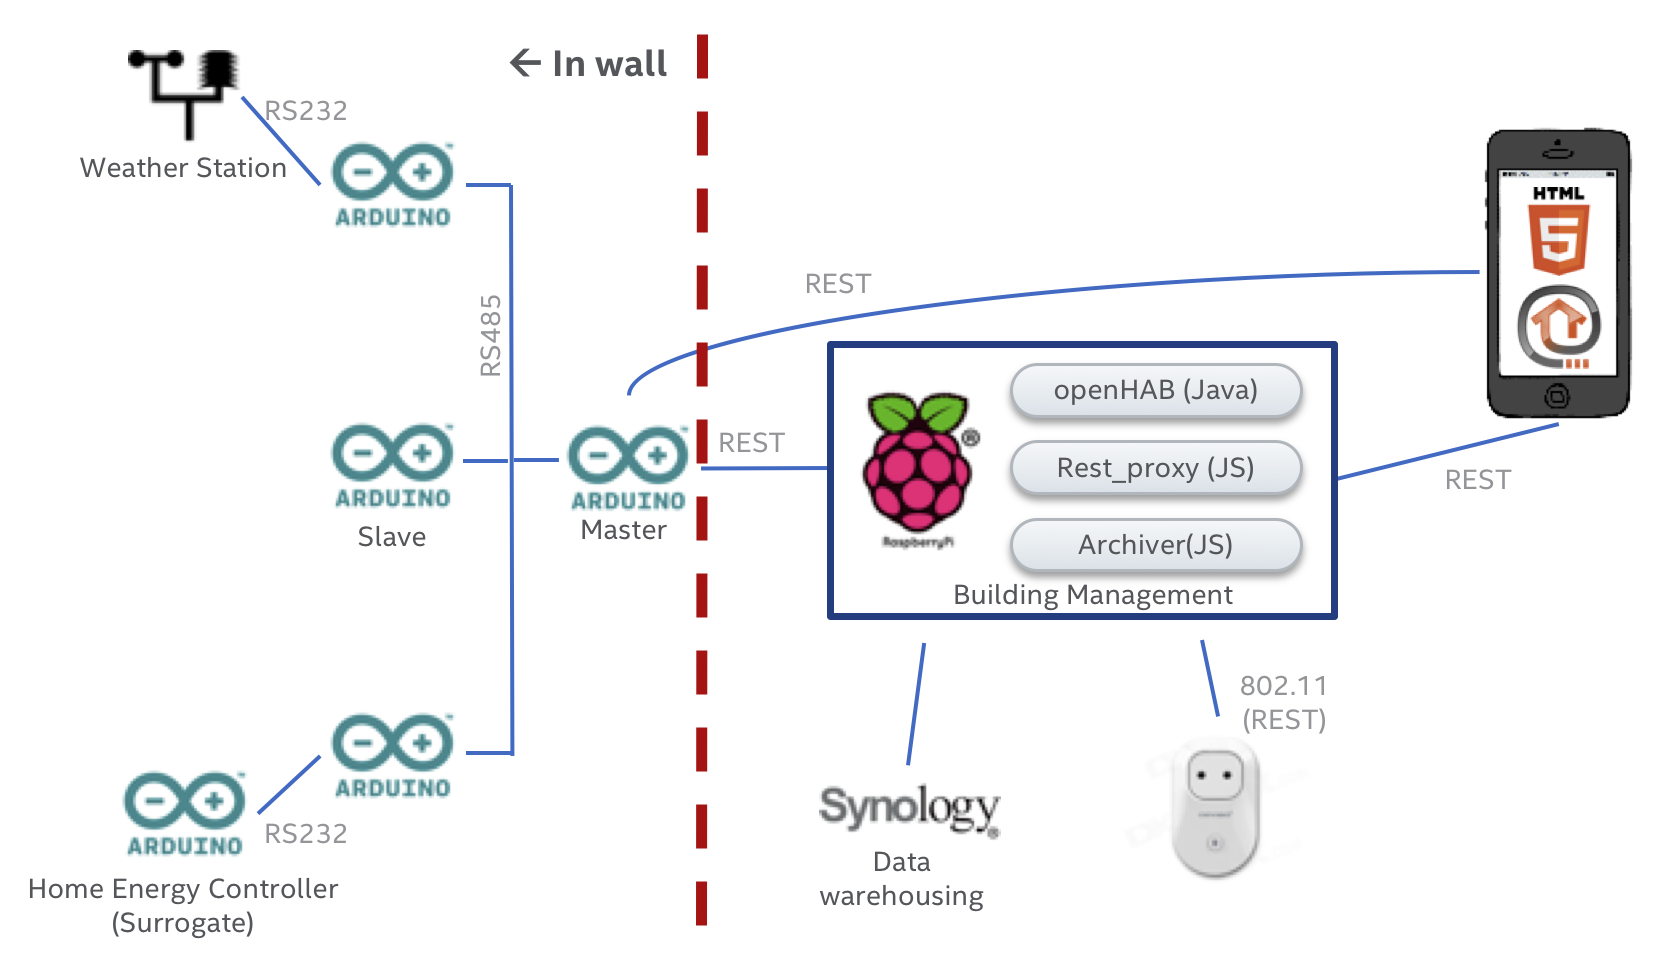
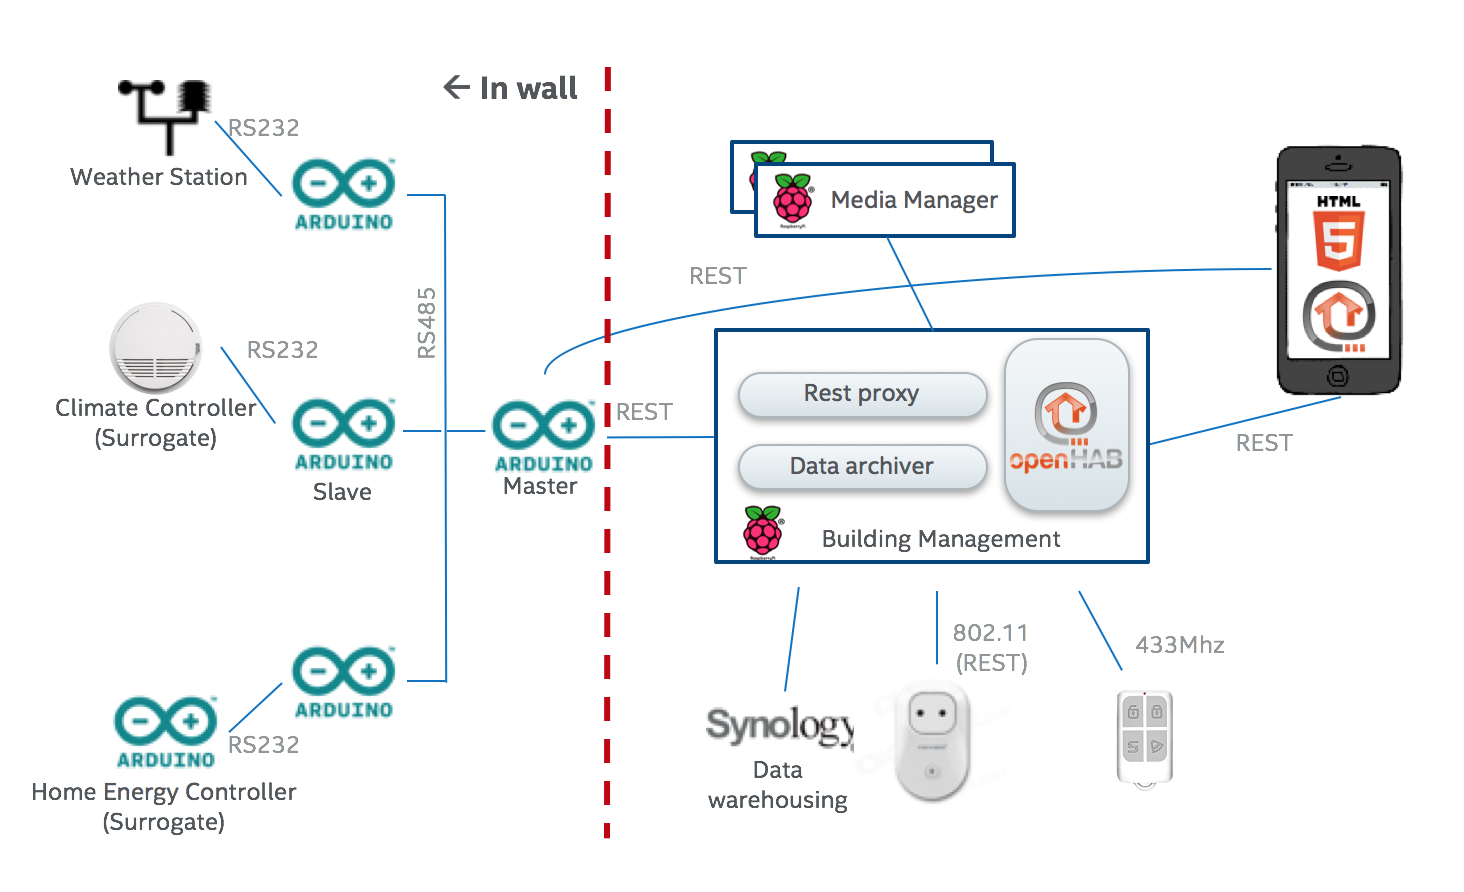
Some clean up and new diagram

diff --git a/en/index.md b/en/index.md
@@ -1,6 +1,6 @@
 ## Introduction
 
-When I started La CasaC I had two options: use commercial products like home automation controllers, security lighting, burglar alarm, etc. and then spend my time trying to integrate proprietary protocols or use Open Source hardware and software to build/integrate everything from scratch. Having suffered the commercial/closed approach with my previous house I decided to try the latter.
+La CasaC is a comfortable, efficient, low maintenance & sustainable family house. All of this is achieved through innovative construction & design techniques and lots of automation. When I started planning La CasaC I had two options in order to automate it: use commercial products like home automation controllers, security lighting, burglar alarm, etc. and then spend my time trying to integrate proprietary protocols or use Open Source hardware and software to build/integrate everything from scratch. Having suffered the commercial/closed approach with my previous house I decided to try the latter.
 
 Building the system from scratch was a significant challenge given the scale of the project. The “initial specs” based on the house blueprints and family expectations included:
 
@@ -18,8 +18,9 @@ Building the system from scratch was a significant challenge given the scale of 
 - A four channel energy meter with an automatic transfer switch to a backup power generator
 - A whole house PA system for TTS cues
 - 2 RFID keypads for access control
+- 4 433Mhz RF receivers
 
-This list adds up to over 200 “things” that the house needs to operate. In order to cope with complexity, I distributed the things across seven controllers (Arduinos) which are in physical proximity to the sensors/actuators. This also helps reduce the need for cabling. Each of these Arduinos (called slaves) can operate independently and carry out logic that does not require global visibility or remote resources (i.e. not physically connected). For example, a wall switch rule can directly control a set of local lights.
+This list adds up to over 200 “things” that the house needs to operate. In order to cope with complexity, I distributed the "things" across seven controllers (Arduinos) which are in physical proximity to the sensors/actuators. This also helps reduce the need for cabling. Each of these Arduinos (called slaves) can operate independently and carry out logic that does not require global visibility or remote resources (i.e. not physically connected). For example: a wall switch rule can directly control a set of local lights.
 
 The seven Arduino slaves are connected to an Arduino master using an [RS485 network](in wall/RS485 Commands.md). The master node polls each slave 4 times per second and executes rules that spawn multiple slaves or that require global or contextual information like time, people presence, sun position, etc.
 
@@ -27,7 +28,7 @@ The master node is also the boundary between the “in wall” control system (a
 
 The following picture provides an overview of the multiple layers that make up La CasaC
 
-![Automation system overview](../uploads/images/Overall%20automation%20system.png?50%)
+![Automation system overview](../uploads/images/Overall automation system.png?50%)
 
 Starting from left to right
 
@@ -36,7 +37,11 @@ Starting from left to right
 - Master node
 - Building Management node: This node includes a couple of software layers. A REST proxy that adds abstraction to the Master node’s API and provides caching and access control (MTLS). An archiving process that converts the sensor data recorded by the master into CSV and stores it on the house NAS. An instance of OpenHab which provides building management services.
 
-Looking forward, I envision other systems that will integrated into this set up like a video doorbell, a CCTV DVR and a Kodi based media & TV delivery system.
+<!-- ## What can the house do?
+
+
+ -->
+
 
 ## In wall system construction
 
@@ -54,7 +59,7 @@ Here is a list of some of the modules a motherboard can include
 - Water level & temperature interface module ( [reverse engineering notes](http://hack4life.pbworks.com/w/page/75653090/Arduino%20Solar%20Water%20Heater%20Sensor))
 - Light sensor module
 - Flood sensor module
-- Digitally controlled PA audio amp module ( [Pic1](../uploads%2Fimages%2FAmp+Module+1.jpg), [Pic2](../uploads%2Fimages%2FAmp+Module+2.jpg), based on the PAM8610)
+- Digitally controlled PA audio amp module ( [Pic1](../uploads/images/Amp Module 1.jpg), [Pic2](../uploads/images/Amp Module 2.jpg), based on the PAM8610)
 - RFID & Keypad module (Wiegand26 based, [libraries/CardReader/CardReader.cpp:20](https://bitbucket.org/cat101/casac/src/default/libraries/CardReader/CardReader.cpp#cl-20))
 - MP3 player to play pre-recorded TTS voice cues ( [WTV020-SD reference page](http://www.emartee.com/product/41540/MP3%20Sound%20Module%20Mini%20SD%20Card))
 - Battery backed up real time clock (based on DS1307)
@@ -63,8 +68,8 @@ Here is a list of some of the modules a motherboard can include
 The following modules are placed externally to the motherboard to keep the mains voltage separated from the low voltage circuitry
 
 - Power supply
-- Wall switches module ( [schematics](../uploads%2Fimages%2FLight+switches+-+v2_schem.png))
-- 5V Solid State Relay Shield ( [Pic1](../uploads%2Fimages%2FSSR+1.png), [Pic2](../uploads%2Fimages%2FSSR+2.png))
+- Wall switches module ( [schematics](../uploads/images/Light switches - v2_schem.png))
+- 5V Solid State Relay Shield ( [Pic1](../uploads/images/SSR 1.png), [Pic2](../uploads/images/SSR 2.png))
 
 Here is an example of a fully assembled mother board installed on "the wall" with the external modules housed on a different case
 

diff --git a/en/navigation.md b/en/navigation.md
@@ -19,11 +19,6 @@
   -- (Read: http://dynalon.github.io/mdwiki/#!quickstart.md#Adding_a_navigation)
   -->
 
-[Usage &amp; Configuration]()
-
-  * [The SD file system](in wall/The SD file system.md)
-  * [The REST API](in wall/The REST API.md)
-
 [Code design &amp; documentation]()
 
   * # House state
@@ -40,6 +35,11 @@
   * # Configuration
   * [Storing slave's config data on EEPROM](in wall/Storing slave's config data on EEPROM.md)
   * [Storing master's config data on SD](in wall/Storing master's config data on SD.md)
+
+[Usage &amp; Configuration]()
+
+  * [The SD file system](in wall/The SD file system.md)
+  * [The REST API](in wall/The REST API.md)
 
 <!-- [References](reference/SW Development tools.md) -->
 

diff --git a/en/in wall/Keypad usage & set up.md b/en/in wall/Keypad usage & set up.md
@@ -1,7 +1,7 @@
 ## Reader usage
 
 <!-- ![](../../images/RFID%20Keypad.jpg?50%) -->
-<img src="../../images/RFID%20Keypad.jpg" alt="keypad" style="width: 300px;"/> 
+<img src="../../uploads/images/RFID%20Keypad.jpg" alt="keypad" style="width: 300px;"/> 
 
 - Commands
   - pins are four digits and cannot end with 0 
